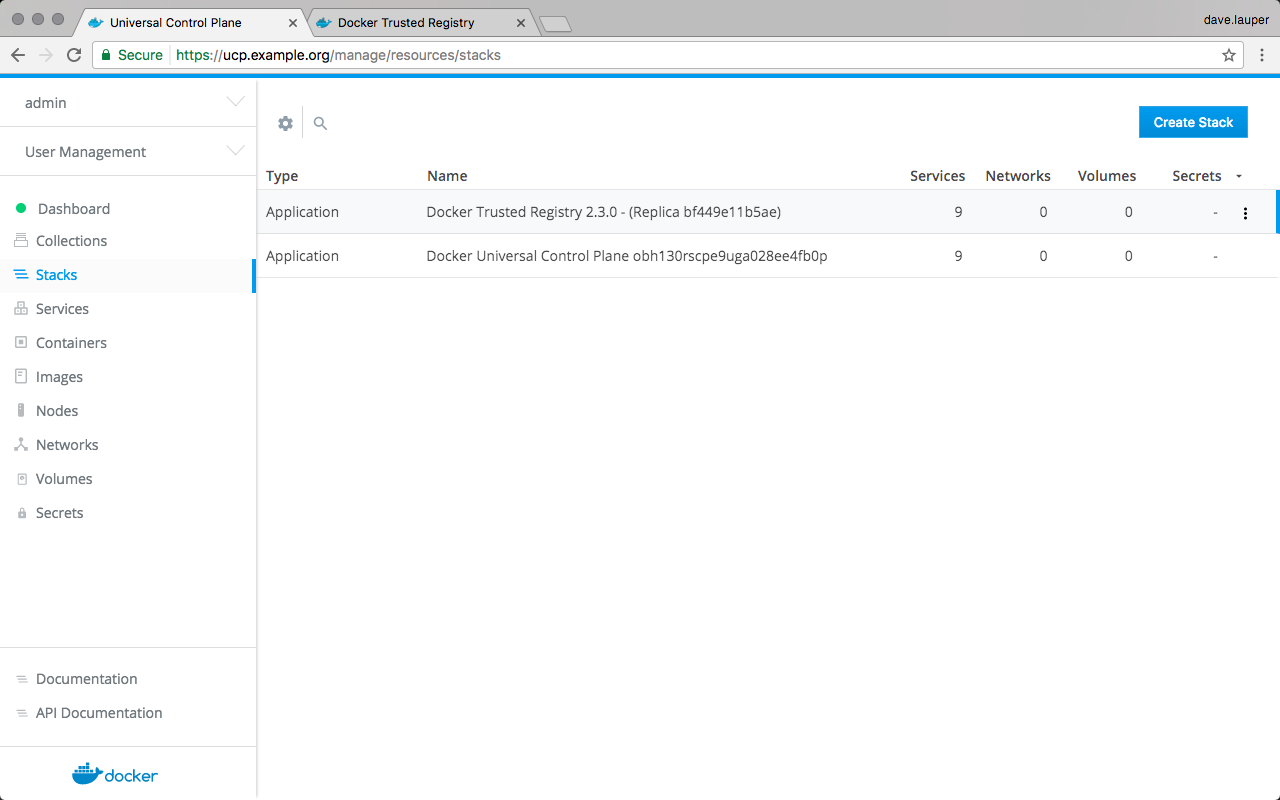
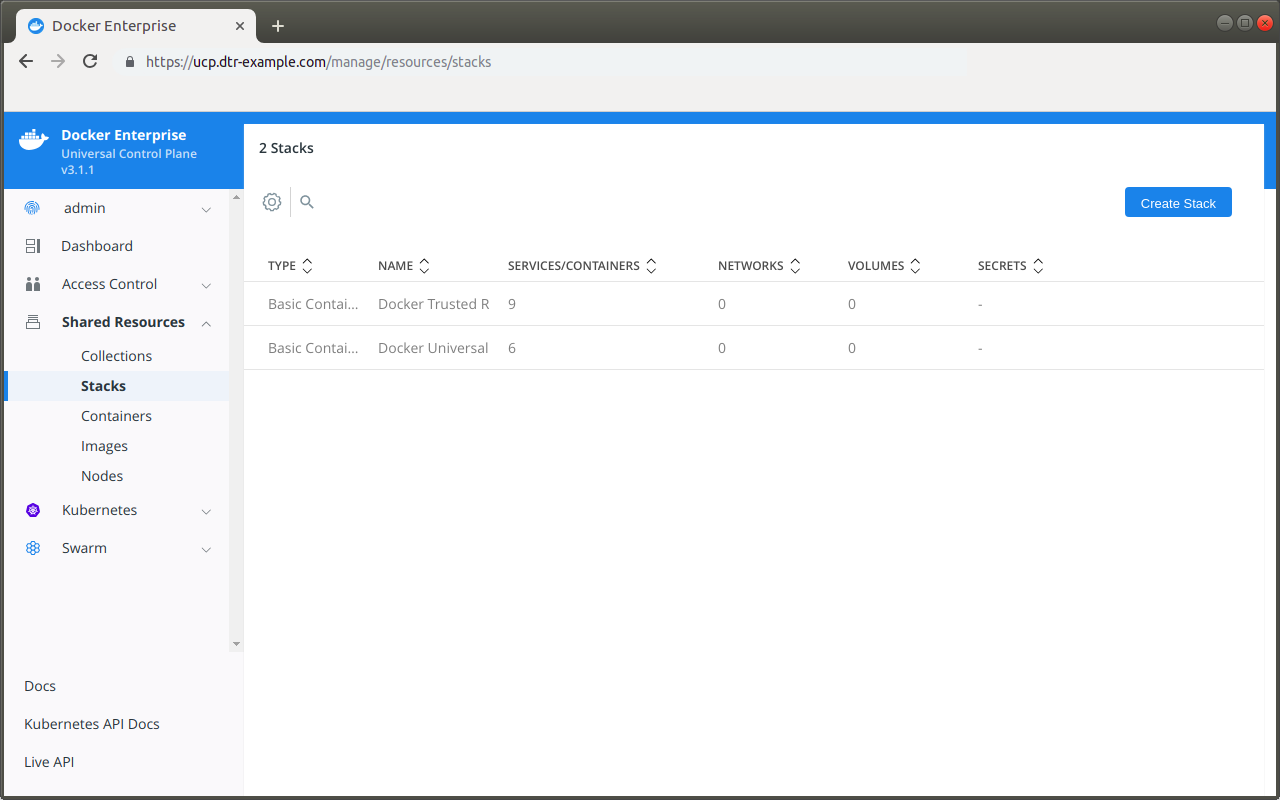
Update screenshots, wording for DTR installation, remove redirect

diff --git a/datacenter/dtr/2.5/guides/admin/install/index.md b/datacenter/dtr/2.5/guides/admin/install/index.md
@@ -29,7 +29,7 @@ You can't install DTR on a standalone Docker Engine.
 
 ## Step 3. Install DTR
 
-Once UCP is installed, navigate to the **UCP web UI**. In the **Admin Settings**,
+Once UCP is installed, navigate to the **UCP web interface**. In the **Admin Settings**,
 choose **Docker Trusted Registry**.
 
 ![](../../images/install-dtr-2.png){: .with-border}
@@ -52,17 +52,17 @@ You can run that snippet on any node where Docker is installed. As an example
 you can SSH into a UCP node and run the DTR installer from there. By default
 the installer runs in interactive mode and prompts you for any additional
 information that is necessary.
-[Learn more about the installer](../../../reference/cli/install.md).
+[Learn more about the installer](/datacenter/dtr/2.5/reference/cli/install).
 
 ## Step 4. Check that DTR is running
 
 In your browser, navigate to the Docker **Universal Control Plane**
-web UI, and navigate to the **Applications** screen. DTR should be listed
+web interface, and navigate to the **Applications** screen. DTR should be listed
 as an application.
 
 ![](../../images/install-dtr-3.png){: .with-border}
 
-You can also access the **DTR web UI**, to make sure it is working. In your
+You can also access the **DTR web interface** to make sure it is working. In your
 browser, navigate to the address where you installed DTR.
 
 ![](../../images/install-dtr-4.png){: .with-border}
@@ -120,7 +120,7 @@ To add replicas to a DTR cluster, use the `docker/dtr join` command:
 3. Check that all replicas are running.
 
     In your browser, navigate to the Docker **Universal Control Plane**
-    web UI, and navigate to the **Applications** screen. All replicas should
+    web interface, and navigate to the **Applications** screen. All replicas should
     be displayed.
 
     ![](../../images/install-dtr-6.png){: .with-border}

diff --git a/ee/dtr/admin/install/index.md b/ee/dtr/admin/install/index.md
@@ -2,9 +2,6 @@
 title: Install Docker Trusted Registry
 description: Learn how to install Docker Trusted Registry for production.
 keywords: dtr, registry, install
-redirect_from:
- - /datacenter/dtr/2.3/guides/admin/install/
- - /datacenter/dtr/2.5/guides/admin/install/
 ---
 
 Docker Trusted Registry (DTR) is a containerized application that runs on a
@@ -52,7 +49,7 @@ You can run that snippet on any node where Docker is installed. As an example
 you can SSH into a UCP node and run the DTR installer from there. By default
 the installer runs in interactive mode and prompts you for any additional
 information that is necessary.
-[Learn more about the installer](/reference/dtr/2.5/cli/install.md).
+[Learn more about the installer](/reference/dtr/2.6/cli/install).
 
 By default DTR is deployed with self-signed certificates, so your UCP deployment
 might not be able to pull images from DTR.
@@ -65,12 +62,13 @@ In your browser, navigate to the Docker **Universal Control Plane**
 web interface, and navigate to the **Applications** screen. DTR should be listed
 as an application.
 
-![](../../images/create-repository-1.png){: .with-border}
+
+![](../../images/install-dtr-3.png){: .with-border}
 
 You can also access the **DTR web interface**, to make sure it is working. In your
 browser, navigate to the address where you installed DTR.
 
-![](../../images/install-dtr-4.png){: .with-border}
+![](../../images/create-repository-1.png){: .with-border}
 
 
 ## Step 5. Configure DTR
@@ -82,7 +80,7 @@ After installing DTR, you should configure:
 
   To perform these configurations, navigate to the **Settings** page of DTR.
 
-  ![](../../images/install-dtr-5.png){: .with-border}
+  ![](../../images/auto-delete-job-logs-1.png){: .with-border}
 
 
 ## Step 6. Test pushing and pulling
